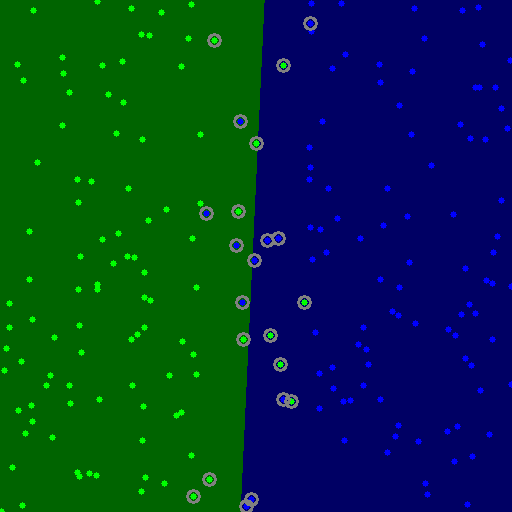
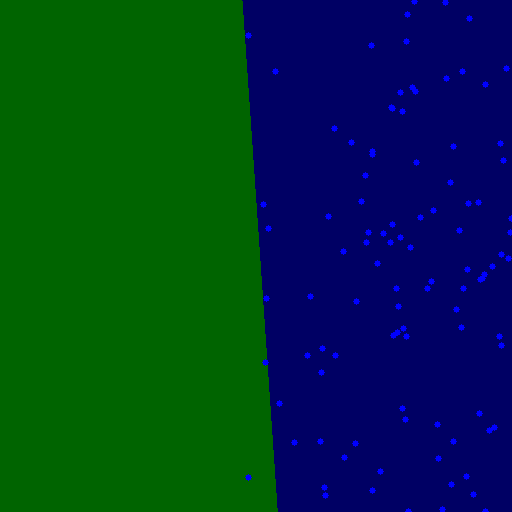
new update

diff --git a/Pythontest/Pythontest/Pythontest.py b/Pythontest/Pythontest/Pythontest.py
@@ -4,19 +4,57 @@ import cv2 as cv
 import tkinter as tk
 from tkinter import filedialog
 import random as rng
+import operator
 
 
-NTRAINING_SAMPLES = 100 # Number of training samples per class
+NTRAINING_SAMPLES = 10 # Number of training samples per class
 FRAC_LINEAR_SEP = 0.9   # Fraction of samples which compose the linear separable part
 
 # Data for visual representation
 WIDTH = 512
 HEIGHT = 512
 I = np.zeros((HEIGHT, WIDTH, 3), dtype=np.uint8)
-
-# --------------------- 1. Set up training data randomly ---------------------------------------
-trainData = np.empty((2*NTRAINING_SAMPLES, 2), dtype=np.float32)
+trainDataSign = np.empty((10, 2*NTRAINING_SAMPLES, 4), dtype=np.float32)
 labels = np.empty((2*NTRAINING_SAMPLES, 1), dtype=np.int32)
+labels[0:NTRAINING_SAMPLES,:] = 1                   # Class 1
+labels[NTRAINING_SAMPLES:2*NTRAINING_SAMPLES,:] = 2 # Class 2
+# --------------------- 1. Set up training data randomly ---------------------------------------
+for i in range(10):
+    url = "H:/Github/AINhandien/ex/hoa/hoa"+str(i+1)+".jpg"
+    img = cv.imread(url)
+    img2 = cv.imread(url)
+
+    img2 = cv.resize(img,(800,400))
+    gray= cv.cvtColor(img2,cv.COLOR_BGR2GRAY)
+    sift = cv.xfeatures2d.SIFT_create()
+    kp= sift.detect(img2,None)
+    kp,des = sift.compute(img2,kp)
+    img2=cv.drawKeypoints(img2,kp,img2,flags=cv.DRAW_MATCHES_FLAGS_DRAW_RICH_KEYPOINTS)
+    datalist = np.empty((len(kp),4),dtype = np.float32)
+    for j in range(len(kp)):
+        datalist[j] = [kp[j].size,kp[j].pt[0],kp[j].pt[1],kp[j].angle]
+    datalist=sorted(datalist,key=operator.itemgetter(0))
+    datalist.reverse();
+    for j in range(10):
+        trainDataSign[j,i,0:4]=datalist[j]
+for i in range(10):
+    url = "H:/Github/AINhandien/ex/phat/phat"+str(i+1)+".jpg"
+    img = cv.imread(url)
+    img2 = cv.imread(url)
+
+    img2 = cv.resize(img,(800,400))
+    gray= cv.cvtColor(img2,cv.COLOR_BGR2GRAY)
+    sift = cv.xfeatures2d.SIFT_create()
+    kp= sift.detect(img2,None)
+    kp,des = sift.compute(img2,kp)
+    img2=cv.drawKeypoints(img2,kp,img2,flags=cv.DRAW_MATCHES_FLAGS_DRAW_RICH_KEYPOINTS)
+    datalist = np.empty((len(kp),4),dtype = np.float32)
+    for j in range(len(kp)):
+        datalist[j] = [kp[j].size,kp[j].pt[0],kp[j].pt[1],kp[j].angle]
+    datalist=sorted(datalist,key=operator.itemgetter(0))
+    datalist.reverse();
+    for j in range(10):
+        trainDataSign[j,i+10,0:4]=datalist[j]
 
 rng.seed(100) # Random value generation class
 
@@ -25,99 +63,68 @@ nLinearSamples = int(FRAC_LINEAR_SEP * NTRAINING_SAMPLES)
 
 ## [setup1]
 # Generate random points for the class 1
-trainClass = trainData[0:nLinearSamples,:]
-# The x coordinate of the points is in [0, 0.4)
-c = trainClass[:,0:1]
-c[:] = np.random.uniform(0.0, 0.4 * WIDTH, c.shape)
-# The y coordinate of the points is in [0, 1)
-c = trainClass[:,1:2]
-c[:] = np.random.uniform(0.0, HEIGHT, c.shape)
-
-# Generate random points for the class 2
-trainClass = trainData[2*NTRAINING_SAMPLES-nLinearSamples:2*NTRAINING_SAMPLES,:]
-# The x coordinate of the points is in [0.6, 1]
-c = trainClass[:,0:1]
-c[:] = np.random.uniform(0.6*WIDTH, WIDTH, c.shape)
-# The y coordinate of the points is in [0, 1)
-c = trainClass[:,1:2]
-c[:] = np.random.uniform(0.0, HEIGHT, c.shape)
-## [setup1]
-
-#------------------ Set up the non-linearly separable part of the training data ---------------
-## [setup2]
-# Generate random points for the classes 1 and 2
-trainClass = trainData[nLinearSamples:2*NTRAINING_SAMPLES-nLinearSamples,:]
-# The x coordinate of the points is in [0.4, 0.6)
-c = trainClass[:,0:1]
-c[:] = np.random.uniform(0.4*WIDTH, 0.6*WIDTH, c.shape)
-# The y coordinate of the points is in [0, 1)
-c = trainClass[:,1:2]
-c[:] = np.random.uniform(0.0, HEIGHT, c.shape)
-## [setup2]
-
-#------------------------- Set up the labels for the classes ---------------------------------
-labels[0:NTRAINING_SAMPLES,:] = 1                   # Class 1
-labels[NTRAINING_SAMPLES:2*NTRAINING_SAMPLES,:] = 2 # Class 2
-
 #------------------------ 2. Set up the support vector machines parameters --------------------
-print('Starting training process')
+svm = np.empty((10),dtype = cv.ml_SVM)
+for i in range(10):
+    print('Starting training process')
 ## [init]
-svm = cv.ml.SVM_create()
-svm.setType(cv.ml.SVM_C_SVC)
-svm.setC(0.1)
-svm.setKernel(cv.ml.SVM_LINEAR)
-svm.setTermCriteria((cv.TERM_CRITERIA_MAX_ITER, int(1e7), 1e-6))
+    
+    svm[i] = cv.ml.SVM_create()
+    svm[i].setType(cv.ml.SVM_C_SVC)
+    svm[i].setC(0.1)
+    svm[i].setKernel(cv.ml.SVM_LINEAR)
+    svm[i].setTermCriteria((cv.TERM_CRITERIA_MAX_ITER, int(1e7), 1e-6))
 ## [init]
 
 #------------------------ 3. Train the svm ----------------------------------------------------
 ## [train]
-svm.train(trainData, cv.ml.ROW_SAMPLE, labels)
+    svm[i].train(trainDataSign[i], cv.ml.ROW_SAMPLE, labels)
 ## [train]
-print('Finished training process')
+    print('Finished training process')
 
 #------------------------ 4. Show the decision regions ----------------------------------------
 ## [show]
-green = (0,100,0)
-blue = (100,0,0)
-for i in range(I.shape[0]):
-    for j in range(I.shape[1]):
-        sampleMat = np.matrix([[j,i]], dtype=np.float32)
-        response = svm.predict(sampleMat)[1]
+# green = (0,100,0)
+# blue = (100,0,0)
+# for i in range(I.shape[0]):
+#     for j in range(I.shape[1]):
+#         sampleMat = np.matrix([[j,i]], dtype=np.float32)
+#         response = svm[0].predict(sampleMat)[1]
 
-        if response == 1:
-            I[i,j] = green
-        elif response == 2:
-            I[i,j] = blue
-## [show]
+#         if response == 1:
+#             I[i,j] = green
+#         elif response == 2:
+#             I[i,j] = blue
+# ## [show]
 
-#----------------------- 5. Show the training data --------------------------------------------
-## [show_data]
-thick = -1
-# Class 1
-for i in range(NTRAINING_SAMPLES):
-    px = trainData[i,0]
-    py = trainData[i,1]
-    cv.circle(I, (px, py), 3, (0, 255, 0), thick)
+# #----------------------- 5. Show the training data --------------------------------------------
+# ## [show_data]
+# thick = -1
+# # Class 1
+# for i in range(NTRAINING_SAMPLES):
+#     px = trainDataSign[0,i,0]
+#     py = trainDataSign[0,i,1]
+#     cv.circle(I, (px, py), 3, (0, 255, 0), thick)
 
-# Class 2
-for i in range(NTRAINING_SAMPLES, 2*NTRAINING_SAMPLES):
-    px = trainData[i,0]
-    py = trainData[i,1]
-    cv.circle(I, (px, py), 3, (255, 0, 0), thick)
-## [show_data]
+# # Class 2
+# for i in range(NTRAINING_SAMPLES, 2*NTRAINING_SAMPLES):
+#     px = trainDataSign[0,i,0]
+#     py = trainDataSign[0,i,1]
+#     cv.circle(I, (px, py), 3, (255, 0, 0), thick)
+# ## [show_data]
 
-#------------------------- 6. Show support vectors --------------------------------------------
-## [show_vectors]
-thick = 2
-sv = svm.getUncompressedSupportVectors()
+# #------------------------- 6. Show support vectors --------------------------------------------
+# ## [show_vectors]
+# thick = 2
+# sv = svm[0].getUncompressedSupportVectors()
 
-for i in range(sv.shape[0]):
-    cv.circle(I, (sv[i,0], sv[i,1]), 6, (128, 128, 128), thick)
-## [show_vectors]
+# for i in range(sv.shape[0]):
+#     cv.circle(I, (sv[i,0], sv[i,1]), 6, (128, 128, 128), thick)
+# ## [show_vectors]
 
-cv.imwrite('result.png', I)                      # save the Image
-cv.imshow('SVM for Non-Linear Training Data', I) # show it to the user
-cv.waitKey()
+# cv.imwrite('result.png', I)                      # save the Image
+# cv.imshow('SVM for Non-Linear Training Data', I) # show it to the user
+# cv.waitKey()
 
 
 
